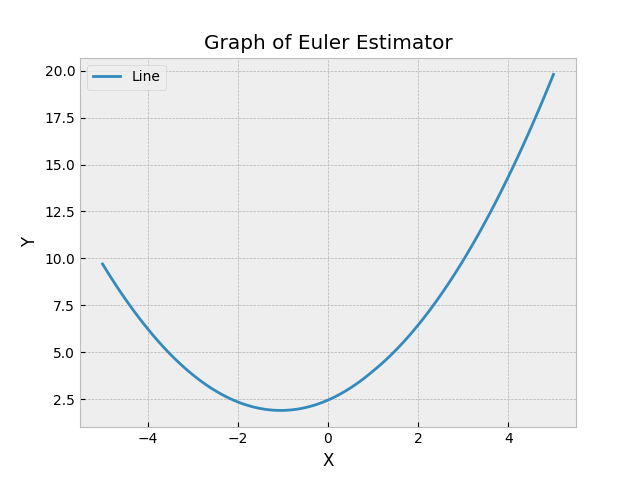
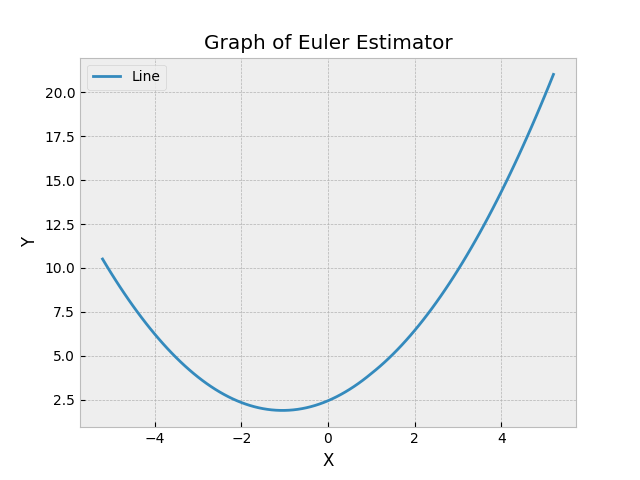
Update euler_estimator.py

diff --git a/src/euler_estimator.py b/src/euler_estimator.py
@@ -1,4 +1,4 @@
-#import matplotlib.pyplot as plt
+import matplotlib.pyplot as plt
 
 class EulerEstimator:
 	def __init__(self, derivatives, start_point):
@@ -23,24 +23,16 @@ class EulerEstimator:
 		self.step(final_x - self.point[0])
 		
 	def plot(self, x_range, stepsize=0.1, filename='plot.png'):
-		plt.style.use('bmh')
 		xs, ys = self.get_positions_for_line(x_range, stepsize)
-		for i in range(0, len(ys)): plt.plot(xs, ys[i])
-		plt.legend(['Line'])
-		plt.xlabel('X')
-		plt.ylabel('Y')
-		plt.title('Graph of Euler Estimator')
-		plt.savefig(filename)
+		for y in [[ys[i][j] for i in range(0, len(ys))] for j in range(0, len(self.point[1]))]: plt.plot(xs, y)
 		plt.show()
 
 	def get_positions_for_line(self, x_range, stepsize):
-		xs_forward, ys_forward = self.get_xs_and_ys(x_range[1], stepsize, True)
-		xs_backward, ys_backward = self.get_xs_and_ys(x_range[0], -1 * stepsize, False)
-		xs_backward.pop(0)
-		ys_backward.pop(0)
-		return xs_backward[::-1] + xs_forward, ys_backward[::-1] + ys_forward
+		xs_forward, ys_forward = self.get_xs_and_ys(x_range[1], -1 * stepsize)
+		xs_backward, ys_backward = self.get_xs_and_ys(x_range[0], stepsize)
+		return xs_backward[1:][::-1] + xs_forward, ys_backward[1:][::-1] + ys_forward
 
-	def get_xs_and_ys(self, x_range, stepsize, forward):
-		self.go_to_input(x_range, stepsize)
+	def get_xs_and_ys(self, x, stepsize):
+		self.go_to_input(x, stepsize)
 		self.point = [pos for pos in self.original_point]
 		return [x for x in self.x_points], [y for y in self.y_points]

diff --git a/tests/test_euler_estimator.py b/tests/test_euler_estimator.py
@@ -54,23 +54,8 @@ print("    Testing EulerEstimator 2's go_to_input()")
 euler_2.go_to_input(5, 2)
 assert (round(euler_2.point[0],5), [round(x,5) for x in euler_2.point[1]]) ==  (5, [10.88, 1.09, -9.58]), "EulerEstimator's go_to_input() was not right, it should be (5, [10.88, 1.09, -9.58]), but was {}".format((round(euler_2.point[0],5), [round(x,5) for x in euler_2.point[1]]))
 print("    EulerEstimator 2's go_to_input() Passed!!!\n")
-euler_2.go_to_input(5, 2)
-'''
-point: (-0.4, (-0.45, -0.05, 0))
-derivative: (0.55, -0.5, -0.1)
-deltas: (2, (1.1, -1, -0.2))
-
-point: (1.6, (0.65, -1.05, -0.2))
-derivative: (1.65, -0.4, -2.1)
-deltas: (2, (3.3, -0.8, -4.2))
-
-point: (3.6, (3.95, -1.85, -4.4))
-derivative: (4.95, 2.1, -3.7)
-deltas: (1.4, (6.93, 2.94, -5.18))
->>> euler.point
-(5, (10.88, 1.09, -9.58))
-'''
-euler_3 = EulerEstimator(derivatives = [(lambda x: x[0] + 1), (lambda x: x[0] + x[1]), (lambda x: 2 * x[1])], point = (0,(0,0,0)))
-euler_3.plot([-5,5], step_size = 0.1, filename = 'plot.png')
 
 print('All Tests Passed!!!')
+
+euler_3 = EulerEstimator([(lambda t,x: x[0] + 1), (lambda t,x: x[0] + x[1]), (lambda t,x: 2 * x[1])], (5, [10.88, 1.09, -9.58]))
+euler_3.plot([-5,5], stepsize = 0.1, filename = 'plot.png')

diff --git a/tests/parabola_plot.py b/tests/parabola_plot.py
@@ -2,5 +2,5 @@ import sys
 sys.path.append('src')
 from euler_estimator import EulerEstimator
 
-euler = EulerEstimator((lambda x: x + 1), (1, 4))
+euler = EulerEstimator([(lambda x,y: x + 1)], (1, [4]))
 euler.plot([-5,5])
